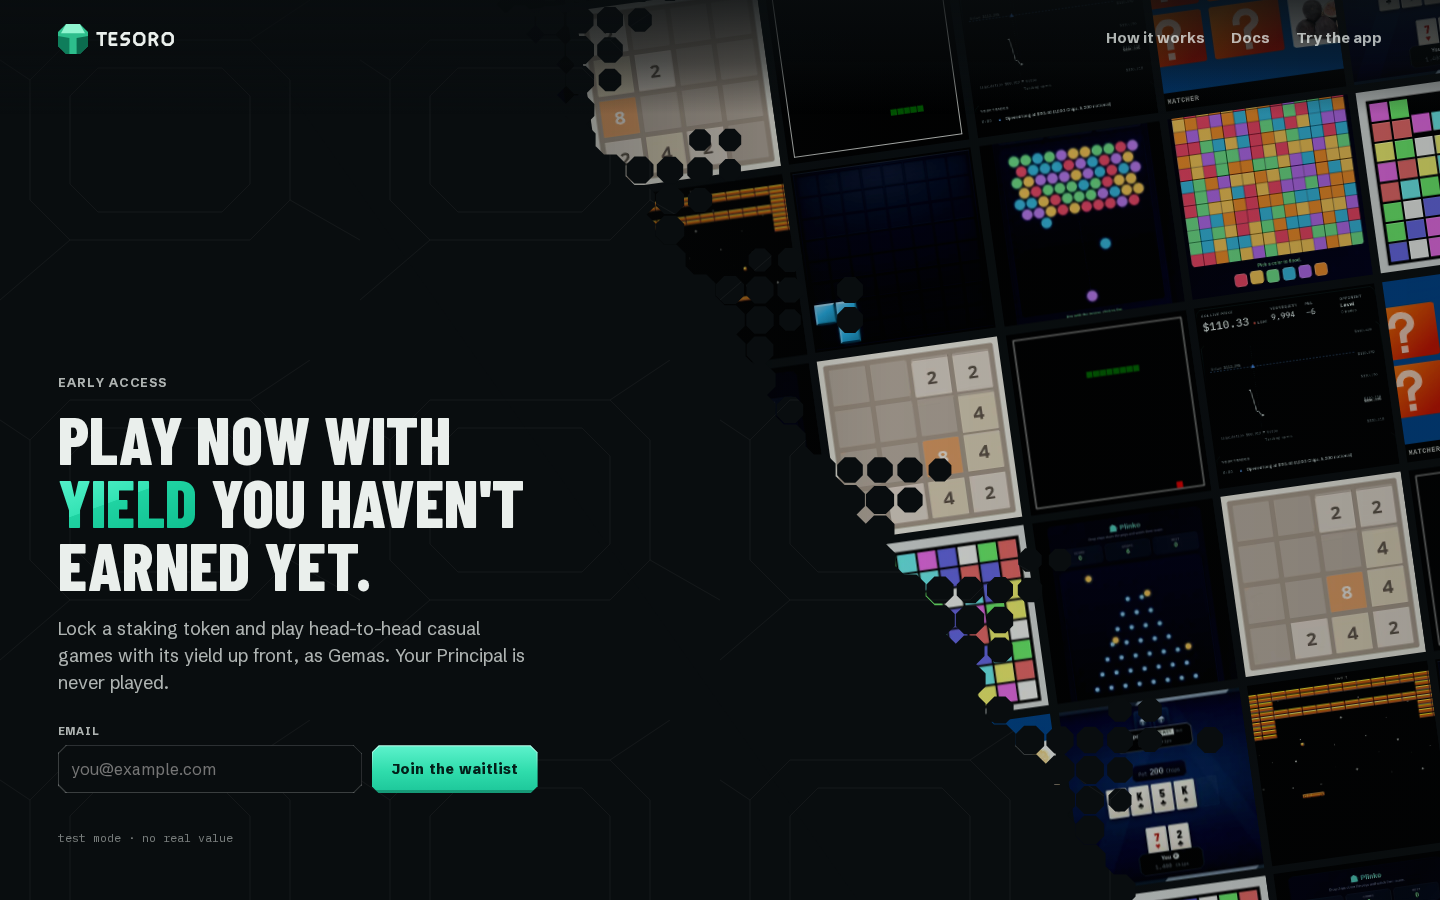
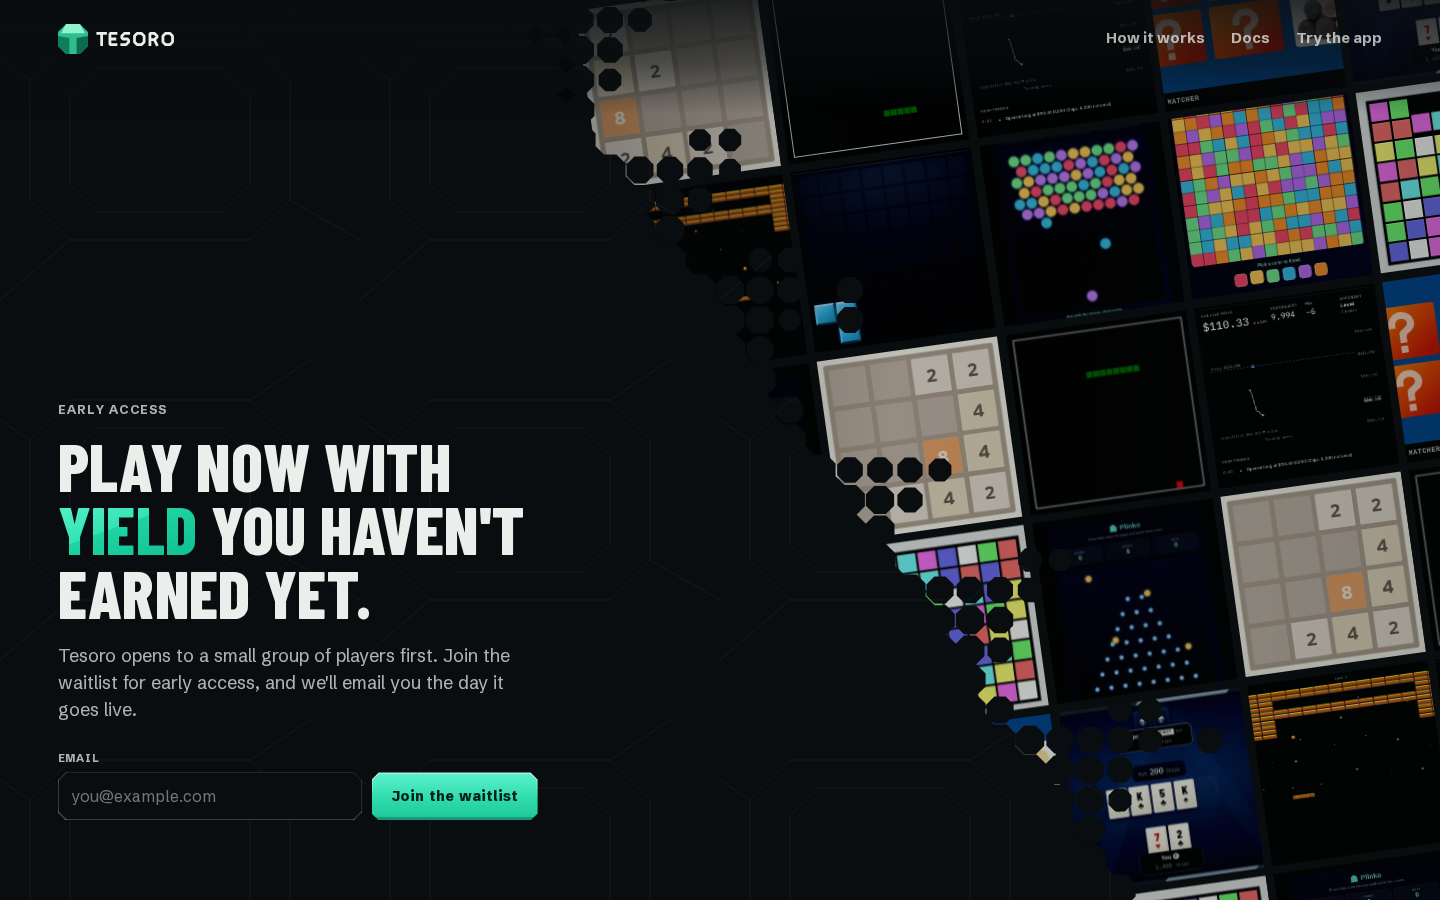
feat(app): waitlist copy: paragraph about the waitlist, no test-mode line

diff --git a/app/src/app/(marketing)/page.tsx b/app/src/app/(marketing)/page.tsx
@@ -5,11 +5,16 @@ import { INSET, LINES, clipAbove, clipBelowInset } from "@/components/waitlist/g
 import { Divider } from "@/components/waitlist/Divider";
 import { VideoWall } from "@/components/waitlist/VideoWall";
 import { WaitlistForm } from "@/components/waitlist/WaitlistForm";
-import { LAUNCH_STAGE, appHref } from "@/lib/landing/config";
+import { appHref } from "@/lib/landing/config";
 import { count } from "@/server/waitlist";
+
+const DESCRIPTION = "Join the Tesoro waitlist for early access.";
 
 export const metadata: Metadata = {
   title: "Tesoro · Join the waitlist",
+  description: DESCRIPTION,
+  openGraph: { title: "Tesoro · Join the waitlist", description: DESCRIPTION, siteName: "Tesoro", type: "website" },
+  twitter: { card: "summary_large_image", title: "Tesoro · Join the waitlist", description: DESCRIPTION },
   alternates: { canonical: "/" },
 };
 
@@ -53,7 +58,7 @@ export default async function Waitlist() {
           Play now with <em className="lp-hl">yield</em> you haven&apos;t earned yet.
         </h1>
         <p className="wl-lede">
-          Lock a staking token and play head-to-head casual games with its yield up front, as Gemas. Your Principal is never played.
+          Tesoro opens to a small group of players first. Join the waitlist for early access, and we&apos;ll email you the day it goes live.
         </p>
         <WaitlistForm />
         {waiting !== null && waiting >= SHOW_COUNT_FROM && <p className="wl-count mono">{waiting.toLocaleString("en-US")} players waiting</p>}
@@ -61,7 +66,6 @@ export default async function Waitlist() {
           <Link href="/welcome">How it works</Link>
           <Link href="/docs">Docs</Link>
         </p>
-        {LAUNCH_STAGE === "testnet" && <p className="wl-stage mono">test mode · no real value</p>}
       </main>
     </div>
   );

diff --git a/app/src/components/waitlist/waitlist.css b/app/src/components/waitlist/waitlist.css
@@ -87,7 +87,6 @@ html:has(.wl), body:has(.wl) { background: #090d0f; }
 .wl-more a { color: var(--fg-2); }
 .wl-more a:hover { color: var(--fg); }
 .wl-more a:focus-visible { outline: 2px solid var(--fg); outline-offset: 3px; }
-.wl-stage { margin-top: 10px; font-size: 11.5px; color: var(--fg-3); }
 
 .wl-done { margin-top: clamp(16px, 3vh, 28px); display: grid; gap: 6px; }
 .wl-done-title { font-family: var(--f-display); font-weight: 800; text-transform: uppercase; font-size: clamp(30px, 5vh, 44px); line-height: 1; }

diff --git a/app/src/components/waitlist/WaitlistForm.tsx b/app/src/components/waitlist/WaitlistForm.tsx
@@ -6,7 +6,7 @@ import { appHref } from "@/lib/landing/config";
 
 const IDLE: WaitlistState = { status: "idle" };
 const SITE = process.env.NEXT_PUBLIC_SITE_URL ?? "https://tesoro-fawn.vercel.app";
-const SHARE_TEXT = "I joined the Tesoro waitlist: play now with yield you haven't earned yet.";
+const SHARE_TEXT = "I just joined the Tesoro waitlist: play casual games with yield you haven't earned yet.";
 
 export function WaitlistForm() {
   const [state, action, pending] = useActionState(joinWaitlist, IDLE);

diff --git a/DESIGN.md b/DESIGN.md
@@ -214,7 +214,7 @@ The home page until launch; the landing it replaced is `/welcome`. Code: `app/sr
 - **No JavaScript.** The server draws the divider for a 1440x900 and a 390x844 frame, stretched to the screen (`preserveAspectRatio="none"`; CSS shows the one that fits), so the first paint and a page without JavaScript have the pattern. After hydration the layout for the real frame size fades in over it (`DividerLive.tsx`).
 - **Video wall.** Eleven screen recordings of games being played, square tiles: Tesoro's three Games (Block Puzzle, Hold'em, Trading Duel, recorded from the app's practice mode) and eight open-source casual web games (2048, a match-3, bubble shooter, breakout, a memory game, snake, plinko, color flood; all MIT, cloned outside the repo into `art-source/waitlist/games`, never vendored; licences and repos in `art-source/waitlist/sources.json` and `CREDITS.md`; none copies a trademarked title or look). Recorded by `scripts/record-waitlist-games.mjs` (CDP screencast, scripted or bot play), turned into `public/art/waitlist/clip-N.{webm,mp4,webp}` by `scripts/import-waitlist-clips.mjs`. Tilted columns drift in opposite directions: 7 columns on a wide screen, 6 on a laptop, 5 on a tablet, 4 on a phone (tiles 140-220px). `buildColumns` (`clips.ts`, tested) never puts a clip next to itself. `muted loop playsInline preload="none"`, WebM then MP4, WebP poster. At most 10 tiles play at once (6 on a phone): only those above the diagonal and on screen, the first four on load and the rest when the browser is idle; the others show their poster. Reduced motion or Save-Data: posters only, no drift.
 - **Join is the page's single primary CTA**, drawn as the landing's Launch app button (`btn money cut cut-btn`). This is the one place emerald is a form submit rather than Gemas moving: the page has no Gemas, and the button is the only action it asks for. "Try the app" in the top bar is plain text.
-- **Words.** The hero says what the product is and carries no testnet, devnet or "simulated" caveat; the only trace is the small "test mode" line under the form, gated on `LAUNCH_STAGE`. The count line shows only from 50 players.
+- **Words.** The hero says what the product is, and the paragraph under it is about the waitlist (a small group first, early access, an email the day it goes live; no rewards, dates or allocations promised). The page carries no testnet, devnet or "simulated" caveat and no `LAUNCH_STAGE` footnote (the landing and the app keep theirs). The page's `description` and Open Graph text are waitlist-focused too. The count line shows only from 50 players.
 - **Sign-up** works without JavaScript (a Server Action behind a plain form). A duplicate email still answers "You're on the list", so the form never reveals who is listed; a hidden `company` field is the honeypot; 5 tries a minute per IP.
 
 ## Docs (`/docs`)
